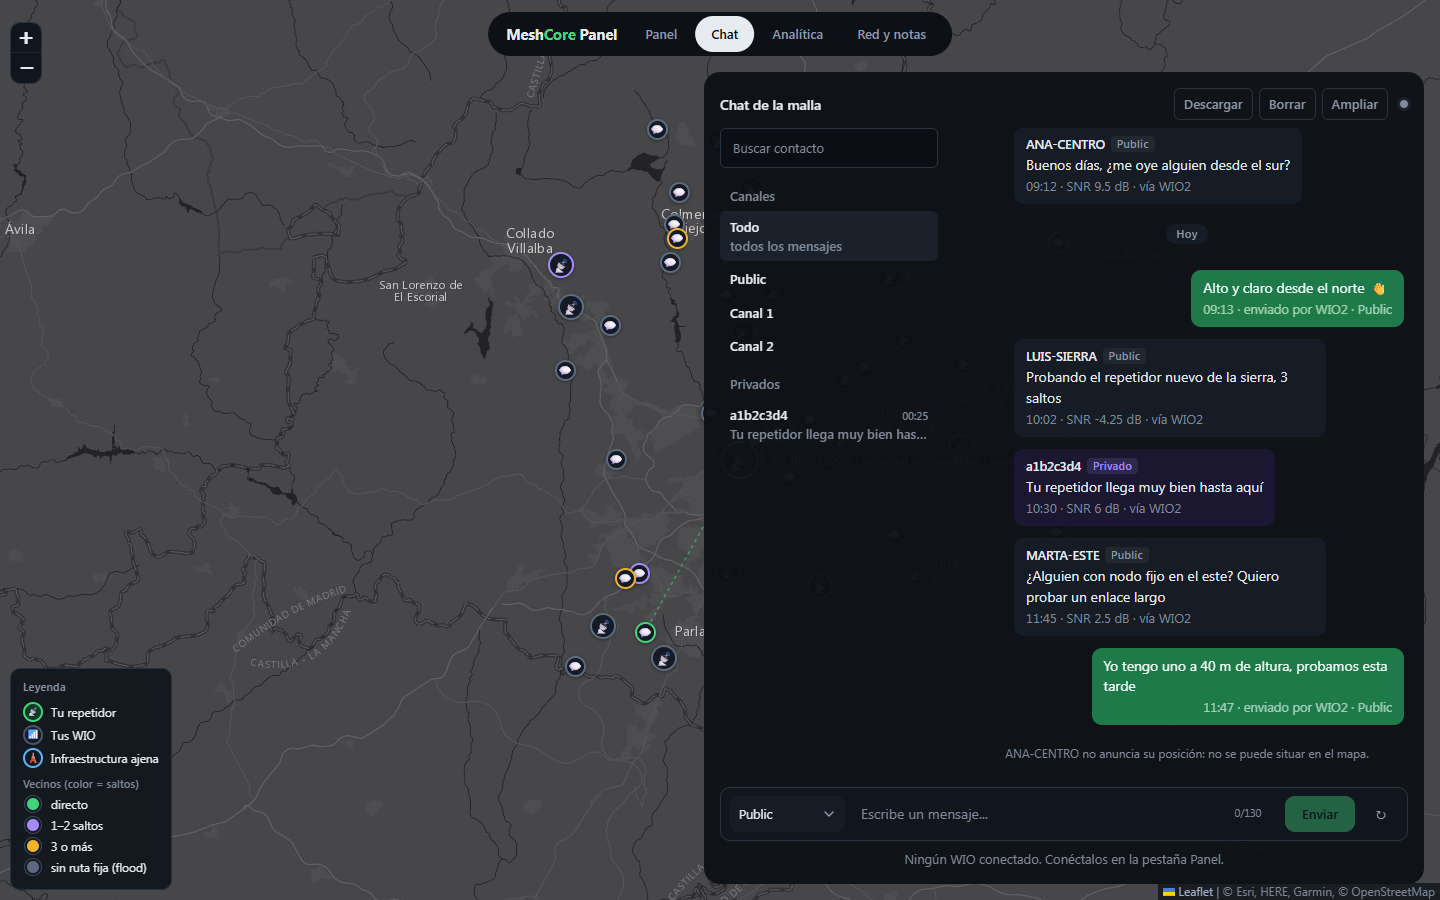
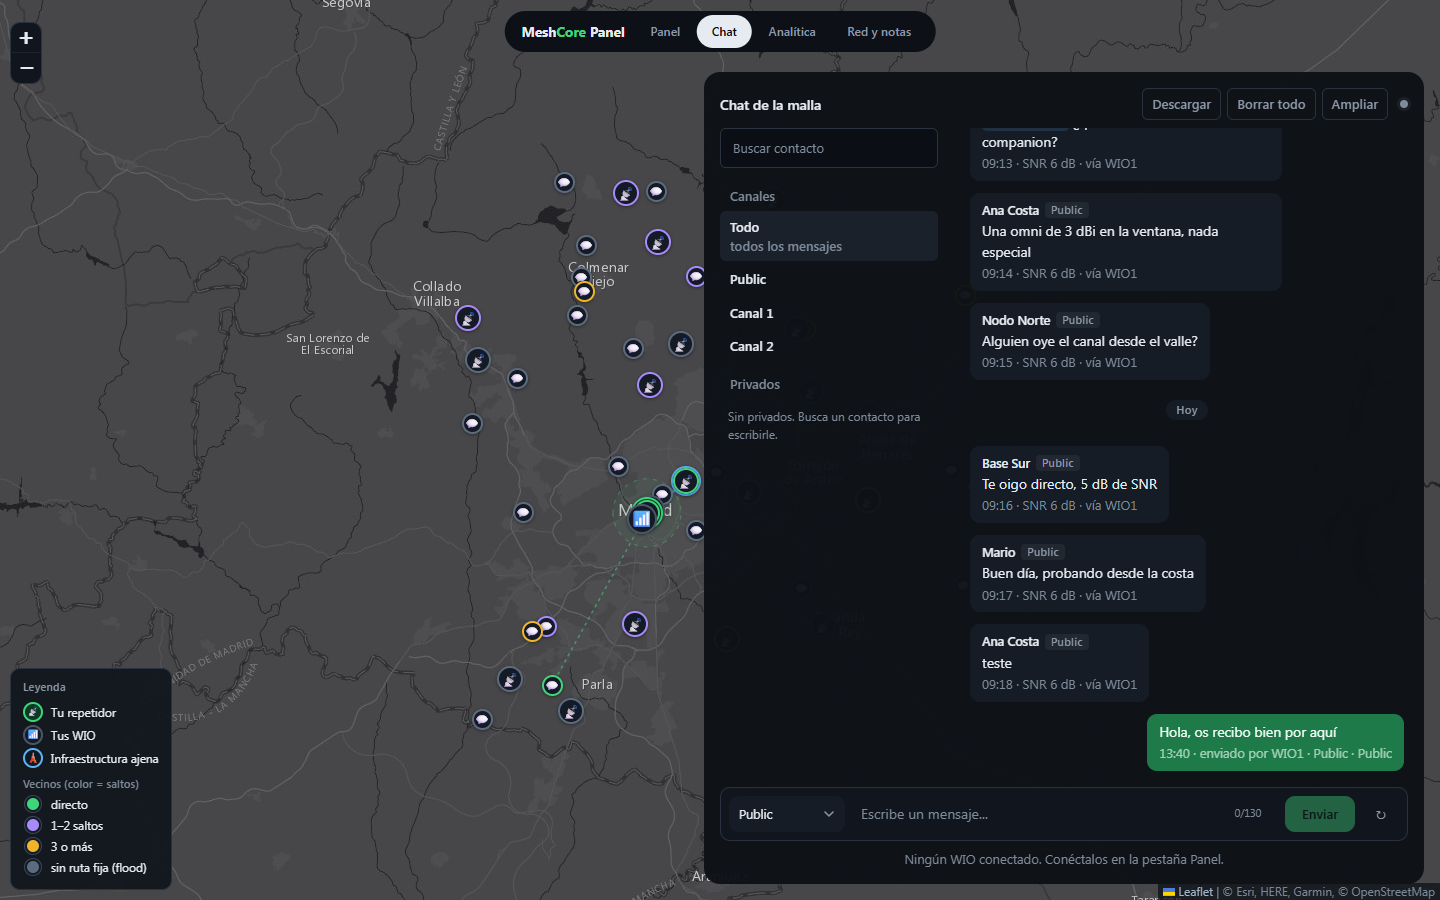
v1.26.1: ficha del WIO con datos en vivo, bateria refrescada y capturas nuevas

diff --git a/bridge/meshcore-ble-gateway.js b/bridge/meshcore-ble-gateway.js
@@ -231,8 +231,9 @@
             }
             // Antes solo se guardaba al pulsar «Conectar»: al recargar volvía el
             // «último estado conocido (hace 29 días)» aunque el WIO estuviera vivo.
-            if(typeof saveNodeState==='function') saveNodeState(idx,{name:info.name,freq:info.freq,bw:info.bw,sf:info.sf,cr:info.cr,tx:info.tx_power,batt:pct(mv),mv});
+            if(typeof saveNodeState==='function') saveNodeState(idx,{name:info.name,freq:info.freq,bw:info.bw,sf:info.sf,cr:info.cr,tx:info.tx_power});
             document.querySelector('#devpanel-w'+idx)?.classList.remove('stale');
+            n._batAt=0;   // fuerza leer la batería en esta misma vuelta
             // El conectar "a mano" (connectWisblock) siempre enganchaba esto;
             // el auto-hidratado de aqui nunca lo hacia, asi que el chat se
             // quedaba mudo en cuanto el enlace pasaba a depender del puente.
@@ -244,6 +245,19 @@
             if(typeof setWDeviceStatus==='function') setWDeviceStatus(idx,'Enlazado, pero no contesta (reintentando)',false);
             const logEl=$('#w'+idx+'-log');
             if(logEl) logEl.textContent='El PC ve el WIO por Bluetooth pero no contesta a los comandos ('+e.message+'). Se reintenta solo cada pocos segundos; si sigue así, apágalo y enciéndelo.';
+          }
+        }
+        if(st && st.connected && !n._manualOff && n._hydrated && Date.now()-(n._batAt||0)>(n._batOk?120000:15000)){
+          n._batAt=Date.now();
+          try{
+            const mv=await n.battery();
+            n._batOk=true;
+            $('#w'+idx+'-batt').textContent=pct(mv)+'% ('+(mv/1000).toFixed(2)+'V)';
+            if(typeof setBattBar==='function') setBattBar(idx,pct(mv));
+            if(typeof saveNodeState==='function') saveNodeState(idx,{batt:pct(mv),mv});
+          }catch(e){
+            n._batOk=false;
+            const b=$('#w'+idx+'-batt'); if(b) b.textContent=b.textContent.replace(/ ?\(sin leer ahora\)$/,'')+' (sin leer ahora)';
           }
         }
         // Un mensaje nuevo llega al relay de Windows y sube push_seq en el

diff --git a/dashboard.html b/dashboard.html
@@ -1517,7 +1517,7 @@ const CFG=Object.assign({
 }, window.PANEL_CONFIG||{});
 const REPEATER_POS=[CFG.repetidor.lat, CFG.repetidor.lon];
 const REP_NOMBRE=CFG.repetidor.nombre;
-const PANEL_VERSION='1.26.0';
+const PANEL_VERSION='1.26.1';
 $('#panelVersion').textContent='v'+PANEL_VERSION;
 // Sin config.js propio el panel funciona, pero con nombres de ejemplo que no
 // cuadran con ninguna radio: avisarlo para que no parezca un fallo.

diff --git a/bridge/meshcore_ble_gateway.py b/bridge/meshcore_ble_gateway.py
@@ -90,7 +90,7 @@ def politica_cli(cmd: str, confirmed: bool):
         return 409, f'CONFIRMAR: {info.cli} - {info.note or info.label}'
     return None
 
-PANEL_VERSION = '1.26.0'
+PANEL_VERSION = '1.26.1'
 PORT = int(os.getenv('MESHCORE_BLE_GATEWAY_PORT', '8780'))
 # 0.0.0.0 por defecto porque el relay del PC entra por la LAN. Si el relay
 # corre en la propia Pi, MESHCORE_BIND=127.0.0.1 deja el puerto solo para nginx.

diff --git a/README.md b/README.md
@@ -22,9 +22,9 @@
 
 | | |
 |---|---|
-| **📡 Panel** | El mapa con tu repetidor, tus companion y los vecinos por saltos, y encima el estado: batería con tendencia, duty cycle, ruido, paquetes y (opcional) la temperatura de la caja. La Raspberry mide el repetidor por radio cada 15 min aunque nadie tenga el panel abierto |
+| **📡 Panel** | El mapa con tu repetidor, tus companion y los vecinos por saltos, y encima el estado: batería con tendencia, duty cycle, ruido, paquetes y (opcional) la temperatura de la caja. La Raspberry mide el repetidor por radio cada 15 min aunque nadie tenga el panel abierto. Un WIO apagado se marca «en pausa» y el relay deja de buscarlo |
 | **🛡 Gestión remota** | Login y comandos CLI al repetidor por LoRa, con política de seguridad (bloquea lo destructivo, pide confirmación en lo arriesgado, no deja salirse de la banda legal) y comprobación de legalidad ERC/REC 70-03 |
-| **💬 Chat** | Canales y privados, con historial, separadores por día y pantalla completa |
+| **💬 Chat** | Canales y privados, con historial, separadores por día y pantalla completa. Se abre donde lo dejaste («N mensajes nuevos») y puedes borrar una conversación, un canal o todo |
 | **🗺 Mapa** (dentro del Panel) | Capas, vecinos por radio, análisis de enlace con perfil de terreno y zona de Fresnel, traceroute, alcance por regiones y exportación a CSV |
 | **📊 Analítica** | SNR/RSSI de cada paquete oído, actividad por hora e histórico del repetidor |
 | **🖥 Terminal** | Terminal web opcional de la Raspberry, tras el mismo login |
@@ -54,7 +54,7 @@ navegador ──HTTPS──> nginx (TLS + login) ──> gateway :8780 (Raspberr
 - El **relay** corre en un PC con Bluetooth cerca de los companion y es su único dueño.
 - El **repetidor** se gestiona por LoRa a través de un companion: no necesita Bluetooth.
 
-Versión actual: 1.26.0**1.0.0** · cambios en [`CHANGELOG.md`](CHANGELOG.md).
+Versión actual: **1.26.1** · cambios en [`CHANGELOG.md`](CHANGELOG.md).
 
 ## Requisitos
 

diff --git a/CHANGELOG.md b/CHANGELOG.md
@@ -3,6 +3,19 @@
 Formato basado en [Keep a Changelog](https://keepachangelog.com/es-ES/1.1.0/) y versiones
 según [SemVer](https://semver.org/lang/es/).
 
+## [1.26.1] - 2026-10-19
+
+### Corregido
+- La ficha del WIO se rellena con datos en vivo aunque la lectura de batería
+  falle o tarde: antes, un fallo único tras conectar dejaba la ficha con la
+  batería y la frecuencia guardadas de la última vez, sin reintentarlo.
+- La batería se vuelve a leer cada 2 minutos (cada 15 s si falla, con la nota
+  «sin leer ahora»), así que ya no se queda con la cifra de horas atrás.
+
+### Cambiado
+- README: capturas nuevas (con datos y mensajes de ejemplo inventados) y la
+  versión actual bien escrita.
+
 ## [1.26.0] - 2026-10-19
 
 ### Cambiado
